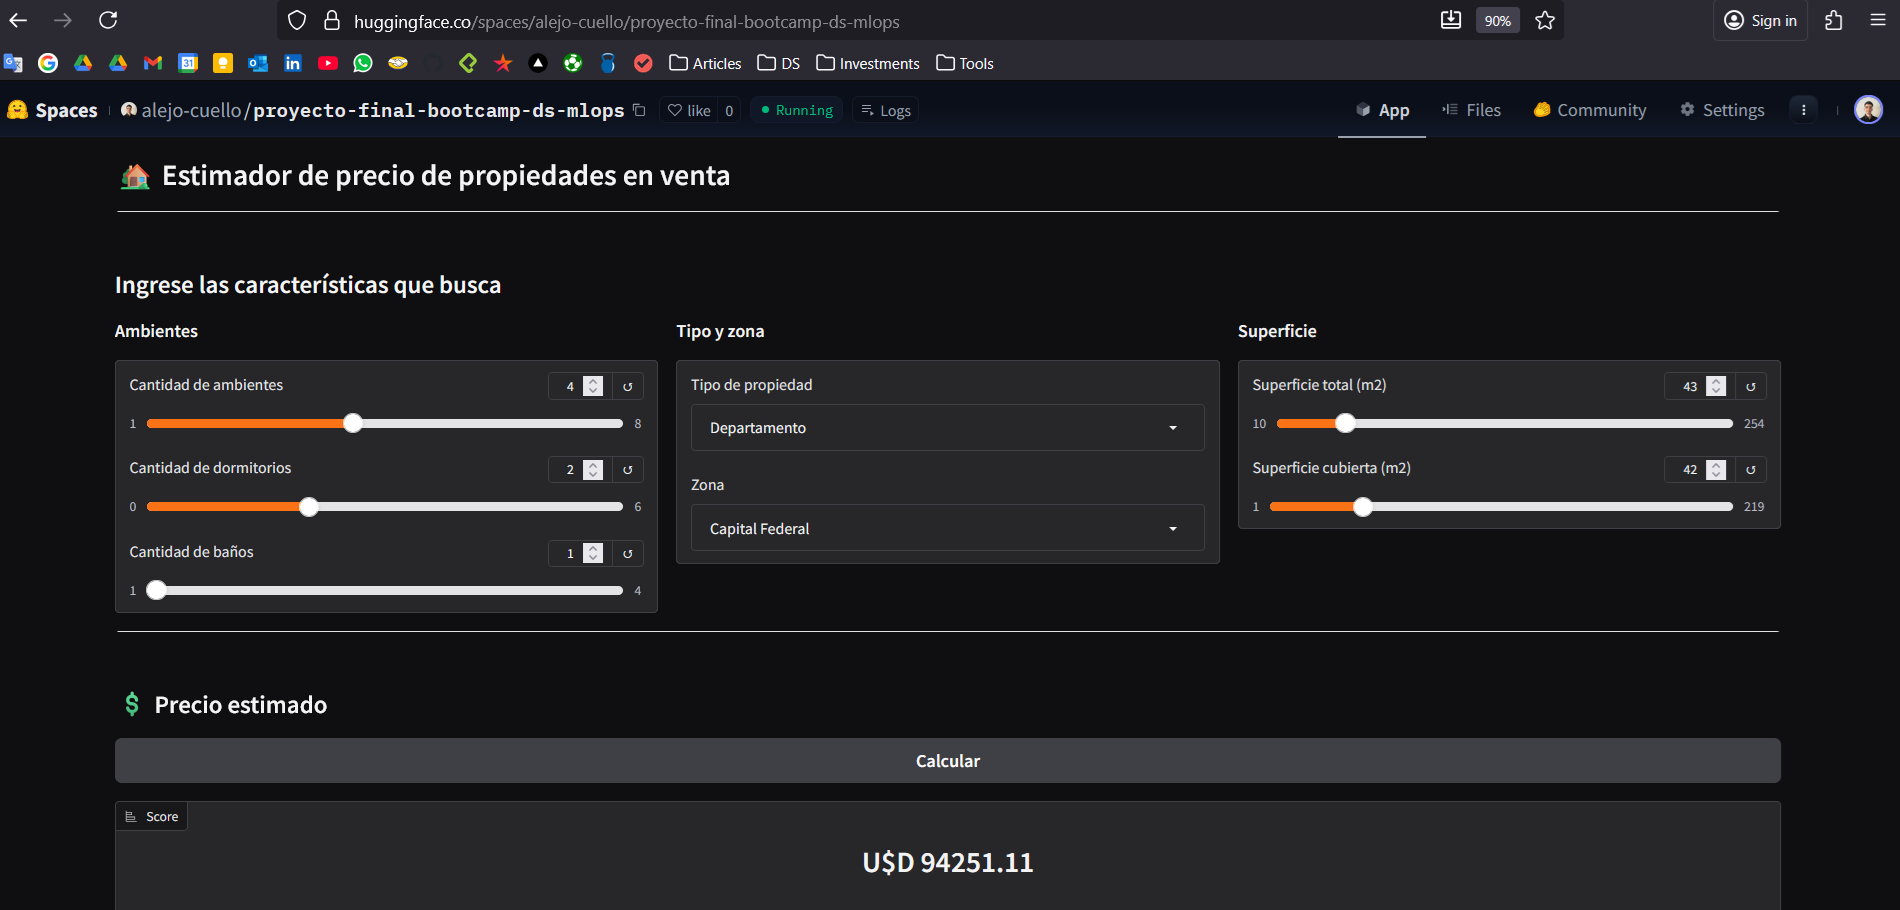
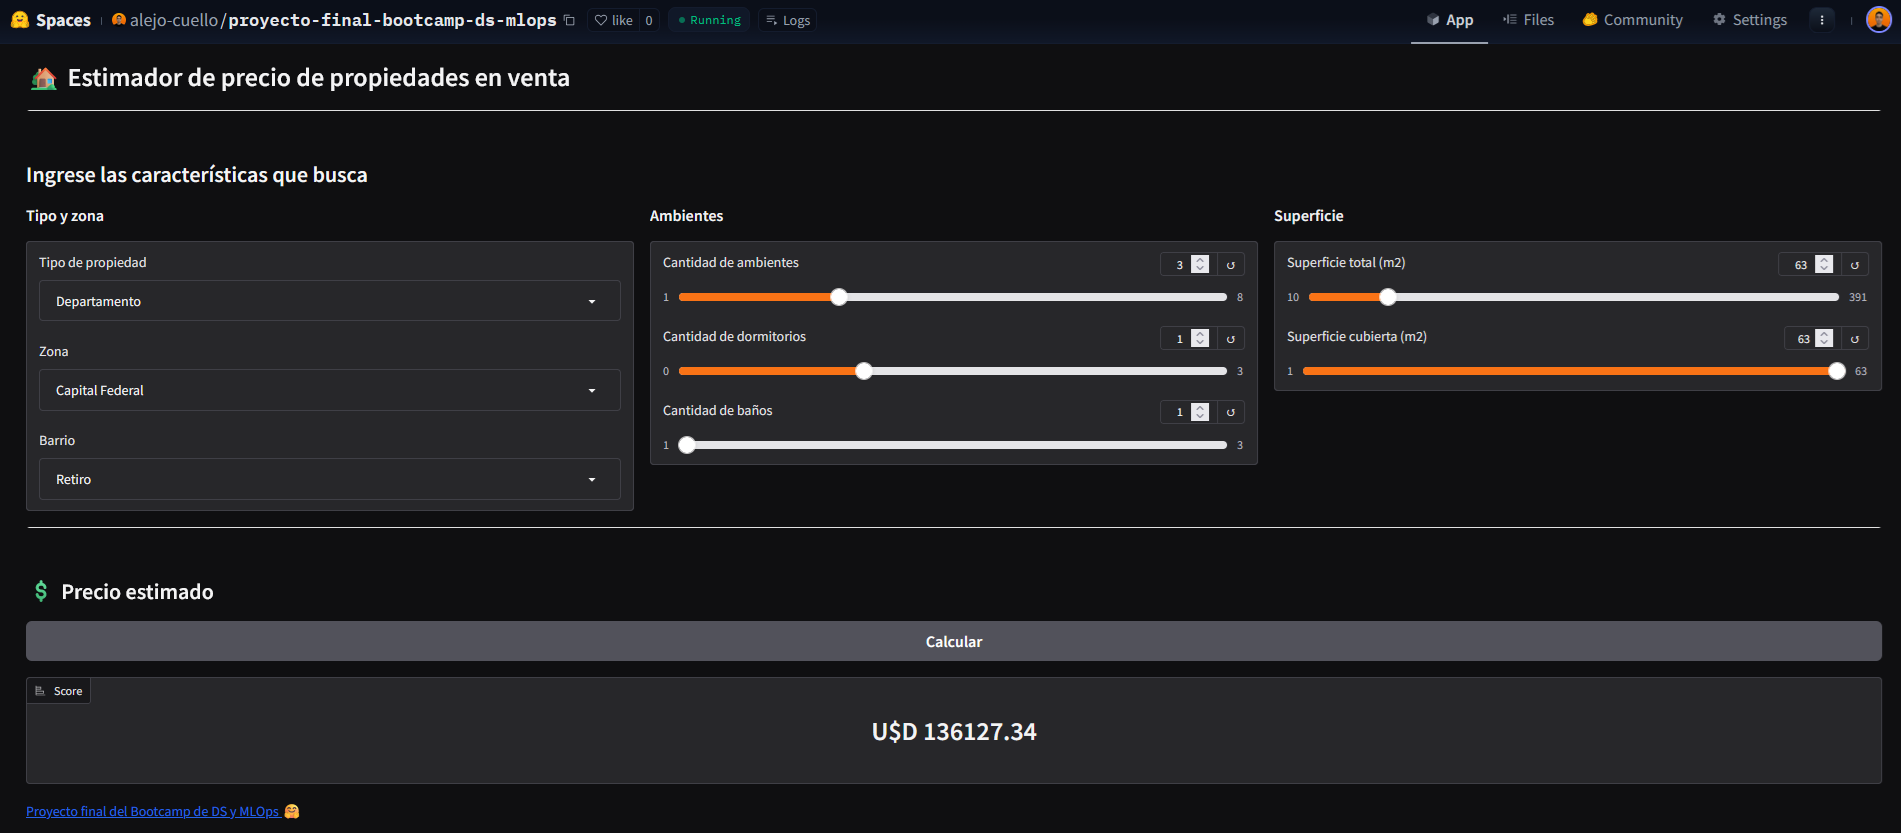
[update] readme.md, assets y call-api-gradio.py

diff --git a/scripts/call-api-gradio.py b/scripts/call-api-gradio.py
@@ -3,12 +3,13 @@ from gradio_client import Client
 client = Client("alejo-cuello/proyecto-final-bootcamp-ds-mlops")
 result = client.predict(
 	param_0=3, # "Cantidad de ambientes"
- 	param_1=2, # "Cantidad de dormitorios"
+ 	param_1=1, # "Cantidad de dormitorios"
 	param_2=1, # "Cantidad de baños"
-	param_3=35, # "Superficie total (m2)"
-	param_4=30, # "Superficie cubierta (m2)"
+	param_3=63, # "Superficie total (m2)"
+	param_4=63, # "Superficie cubierta (m2)"
 	param_5="Capital Federal", # "Zona"
-	param_6="Departamento", # "Tipo de propiedad"
+	param_6="Retiro", # "Barrio"
+	param_7="Departamento", # "Tipo de propiedad"
 	api_name="/predict"
 )
 print(result)

diff --git a/README.md b/README.md
@@ -32,7 +32,7 @@ También descarté "surface_uncovered", ya que se obtiene a partir de la resta e
 
 ### **Exportación del modelo:**
 
-El modelo fue exportado mediante MLFlow. Puede encontrarse en la carpeta *mlruns/512582443179615027/models/m-0248ec91bbc349f393da1c30e4f3fed1/artifacts/model.pkl* 
+El modelo fue exportado mediante MLFlow. Puede encontrarse en la carpeta *mlruns/512582443179615027/models/m-454cb18b3a6d4aa3b4f229257f7fb5c8/artifacts/model.pkl* 
 
 ## 🖥 **Parte 3 — Interfaz con Gradio y Deploy en Hugging Face Spaces**
 
@@ -52,16 +52,31 @@ https://huggingface.co/spaces/alejo-cuello/proyecto-final-bootcamp-ds-mlops
 
 ![Api de gradio](assets/app-gradio-api.png)
 
+## ✍ **Correciones post entrega**
+
+### **Correcciones en el Análisis Exploratorio y Tratamiento de Datos:**
+- **Eliminación de Hardcodeo de Coordenadas:** Se corrigió el error de dejar hardcodeada la latitud y la longitud en las predicciones. Dado que el modelo recibía estas coordenadas como una variable, su hardcodeo resultaba en un alto error de predicción
+- **Adición de Variable L3:** Se incorporó la variable L3, que corresponde a los barrios, la cual se identificó como de gran valor para la aplicación
+- **Limpieza de Datos de Superficie:** Se descartaron aquellos registros donde la superficie cubierta era mayor a la superficie total, ya que esta situación no es factible
+
+## **Correcciones en el Modelado:**
+- **Descarte de Variables:** Basándose en las correcciones del análisis exploratorio, se realizaron ajustes en los modelos, descartando las variables de latitud y longitud
+
+# **Correcciones en la Interfaz (UI):**
+- **Integración del Barrio:** Se hicieron las correcciones pertinentes en la interfaz para agregar la selección del barrio
+- **Condicionales por Zona:** Se añadieron condicionales en los selectores para seleccionar barrios de la zona elegida
+- **Validación de Inputs (Superficie):** Se mejoraron los inputs condicionando que la superficie cubierta nunca pueda ser mayor a la superficie total
+- **Validación de Inputs (Habitaciones/Baños):** Se mejoraron los inputs condicionando que la cantidad de baños y dormitorios nunca sea mayor a la cantidad total de ambientes
+
 ## ✅ Aprendizajes técnicos relevantes:
 - Para agilizar el entrenamiento de modelos ante datasets tan grandes, el muestreo es una buena opción, siempre que sea una proporción representativa del total.
 - El proyecto enseñó la relevancia de la automatización: se aprendió a realizar el tracking de las pruebas con MLflow, lo cual fue muy útil. Esto permitió parametrizar fácilmente las distintas corridas ejecutadas, teniendo a simple vista todos los resultados de hiperparámetros y scores.
+- El hardcodeo de variables en la predicción es algo que genera muchísimo error en las predicciones. Es algo que no debería hacerse nunca.
+- Siempre hay que incluir las variables que resulten de valor para el negocio, por ejemplo el barrio de la propiedad.
 
 ## Anexo:
 
 ### 🔹 Conclusiones de negocio
-**¿Alguna vez viste una propiedad donde la superficie cubierta es mayor que la total?**
-
-Parece absurdo, pero en los datos ocurre, y muchas de esas publicaciones ni siquiera están disponibles. De hecho, la mayoría del mercado ya está fuera de línea, como si las mejores oportunidades hubieran desaparecido antes de tiempo.
 
 **¿Por qué es tan difícil encontrar casas en Capital Federal?**
 
@@ -84,25 +99,25 @@ Mi fase de modelado comenzó con el Random Forest Regressor, elegido por ser una
 
 Apliqué primero la búsqueda aleatoria (Randomized Search) para encontrar los mejores ajustes iniciales. Aunque luego ajusté estos parámetros con Grid Search CV, el error del mejor modelo seguía siendo notablemente grande y muy variable entre los datos de entrenamiento y prueba. Esta inestabilidad me obligó a dar un paso crucial hacia atrás en la limpieza de datos para mejorar la predicción, confirmando que la limpieza nunca termina.
 
-![Rancomized search](assets/rfr-model-randomizedsearch.png)
+![Randomized search](assets/rfr-model-randomizedsearch-2.png)
 
 La decisión más importante fue eliminar los outliers de registros con precios muy elevados, ya que generaban sesgos significativos en las predicciones. Esta intervención provocó una mejora notable en la estabilidad y el rendimiento del modelo de Random Forest, reduciendo el error. Al volver a aplicar Randomized Search y luego Grid Search, pude enfocarme en un modelo más estable, priorizando menor diferencia de error entre train y test. Este límite de precio máximo también lo trabajé como un parámetro de las corridas, ya que es un dato importante de considerar a la hora de decidirse por un modelo.
 
-![Rancomized search](assets/rfr-model-gridsearch.png)
+![Grid search](assets/rfr-model-gridsearch-2.png)
 
 Paralelamente a la optimización del random forest, también exploré el modelo más sencillo y rápido de Regresión Lineal. Aunque realicé los mismos ajustes, como variar las columnas consideradas y aplicar el recorte de outliers, sus resultados de rendimiento fueron consistentemente mucho más bajos. En comparación con los modelos de Random Forest, la Regresión Lineal no demostró ser una alternativa viable para esta tarea predictiva.
 
-![lr-model.png](assets/lr-model.png)
+![Linear model](assets/lr-model-2.png)
 
 La clave para gestionar esta serie de experimentos y ajustes —que me hicieron ir y venir— fue la implementación de MLflow. MLflow lo utilicé para el tracking de todos los hiperparámetros, scores y variables, permitiendo una rápida evaluación de las distintas corridas ejecutadas. Pude parametrizar todo fácilmente en archivos .py, asegurando que cada resultado obtenido quedara registrado de forma sencilla y automatizada.
 
 **Métricas del modelo seleccionado:**
-- mae_train: 22617.86
-- mae_test: 30077.74
-- p2_train: 0.83
-- p2_test: 0.71
-- rmse_train: 32523.89
-- rmse_test: 43379.21
+- mae_train: 16665.45
+- mae_test: 22794.13
+- p2_train: 0.76
+- p2_test: 0.55
+- rmse_train: 22765.30
+- rmse_test: 31232.57
 
 ### 🔹Puntos de mejora:
 - Se podría probar la agrupación de variables categóricas que se mantuvieron en consideración pero que cuentan con pocos registros.
